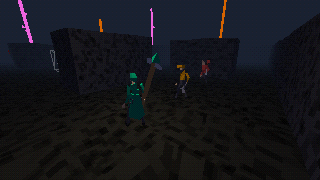
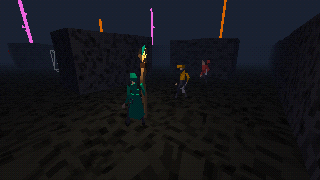
feat(arte): cristal acima dos galhos e testes das variantes do cajado
Cristal do cajado maior e com a ponta acima dos galhos (lê de costas, em 3ª
pessoa) e emissivo no bloom da camada A do V4; serpente do caduceu (b) mais
visível. Referências do compare regeneradas (só o cajado muda; 3 rodadas
determinísticas).

Claude-Session: https://claude.ai/code/session_01RHvzBkpAz1qJUMgUKvPxkx

Changed region(s): [[0.4062, 0.25, 0.5312, 0.5278], [0.4375, 0.5833, 0.4688, 0.6111]]

diff --git a/packages/client/test/characters.test.ts b/packages/client/test/characters.test.ts
@@ -1,7 +1,7 @@
 // Pipeline de personagens (V2): escolha de clipe pelo estado do sim e consistência das fichas com a paleta.
 import { readFileSync } from "node:fs";
 import { describe, expect, it } from "vitest";
-import { CHARACTERS, CLIP_NAMES } from "../src/assets/characters.ts";
+import { CHARACTERS, CLIP_NAMES, SHEET, expandCharacter, expandVariants } from "../src/assets/characters.ts";
 import { ACTIVE, chooseClip, newMemory, type ClipContext } from "../src/render/characters/state.ts";
 import { atlasLayout, atlasPixels, type Palette } from "../src/render/characters/bake.ts";
 
@@ -73,5 +73,15 @@ describe("fichas e atlas", () => {
     allowed.add("0,0,0");
     for (let i = 0; i < px.length; i += 4) expect(allowed.has(`${px[i]},${px[i + 1]},${px[i + 2]}`)).toBe(true);
     for (const [, [u, v]] of uv) { expect(u).toBeGreaterThan(0); expect(u).toBeLessThan(1); expect(v).toBeGreaterThan(0); expect(v).toBeLessThan(1); }
+  });
+
+  it("variantes: o padrão vai para CHARACTERS e cada variante soma só as próprias peças", () => {
+    const cur = SHEET.personagens.find(c => c.id === "curandeiro")!;
+    const all = expandVariants(SHEET).find(v => v[0].id === "curandeiro")!;
+    expect(all[0].variante).toBe(cur.variantes!.padrao);
+    expect(CHARACTERS.find(c => c.id === "curandeiro")!.variante).toBe(cur.variantes!.padrao);
+    const a = expandCharacter(SHEET, cur, "mago"), b = expandCharacter(SHEET, cur, "mago_caduceu");
+    expect(b.pecas.length - a.pecas.length).toBe(cur.variantes!.lista.mago_caduceu.pecas.length - cur.variantes!.lista.mago.pecas.length);
+    expect(() => expandCharacter(SHEET, cur, "nenhuma")).toThrow(/inexistente/);
   });
 });

diff --git a/packages/shared/test/art.test.ts b/packages/shared/test/art.test.ts
@@ -1,7 +1,7 @@
 // V3: schema e coerência dos dados de arte (data/art/palette.json, data/art/personagens.json).
 import { describe, expect, it } from "vitest";
 import { fileURLToPath } from "node:url";
-import { checkArt, resolveClips, CLIP_NAMES } from "../src/index.ts";
+import { checkArt, resolveClips, variantIds, CLIP_NAMES } from "../src/index.ts";
 import { loadBalanceFile, loadPaletteFile, loadSheetFile } from "../src/node.ts";
 
 const root = fileURLToPath(new URL("../../../", import.meta.url));
@@ -32,5 +32,19 @@ describe("dados de arte", () => {
 
   it("acusa skin da loja sem ficha", () => {
     expect(checkArt(palette, sheet, [...skins, "nova"]).join()).toMatch(/skins da ficha/);
+  });
+
+  it("variantes de arte (A2-ajuste): padrão primeiro, padrão inexistente e cor de estado na variante acusados", () => {
+    const cur = sheet.personagens.find(c => c.id === "curandeiro")!;
+    expect(variantIds(cur)[0]).toBe(cur.variantes!.padrao);
+    expect(variantIds(cur).sort()).toEqual(Object.keys(cur.variantes!.lista).sort());
+    expect(variantIds(sheet.personagens.find(c => !c.variantes)!)).toEqual([undefined]);
+    const bad = clone(sheet);
+    const c = bad.personagens.find(x => x.id === "curandeiro")!;
+    c.variantes!.padrao = "nenhuma";
+    c.variantes!.lista.mago_caduceu.pecas[0].cor = "fx.preso";
+    const errs = checkArt(palette, bad, skins).join("\n");
+    expect(errs).toMatch(/variante padrão 'nenhuma'/);
+    expect(errs).toMatch(/fx\.preso/);
   });
 });
